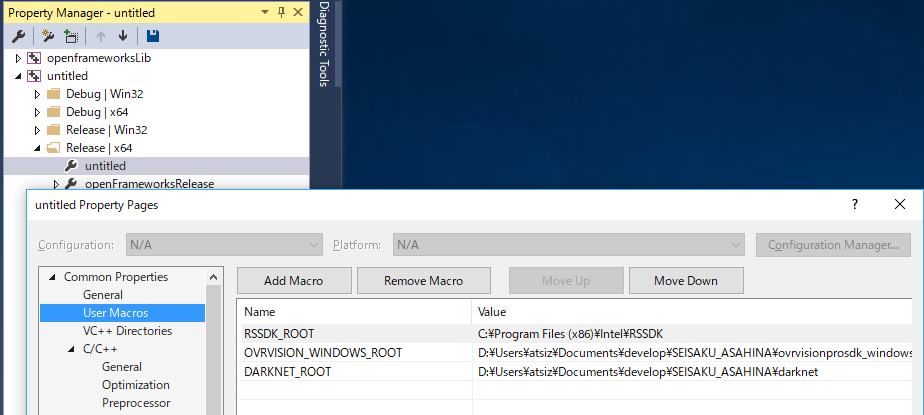
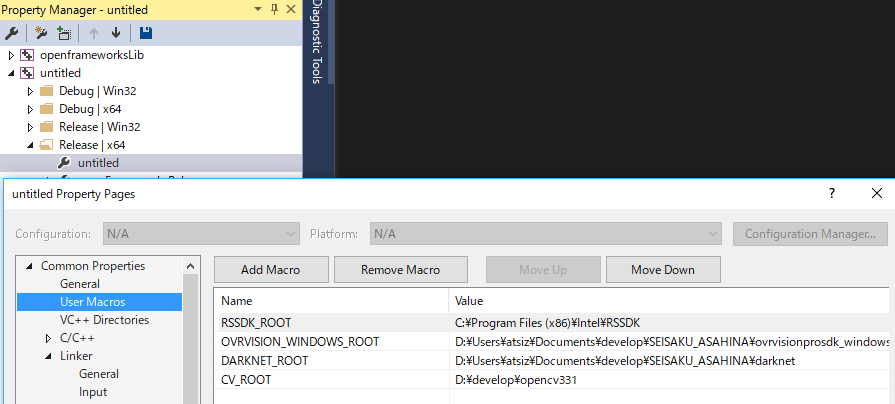
implemeted canny filter to OVRVISION images.

diff --git a/src/ofApp.cpp b/src/ofApp.cpp
@@ -25,6 +25,10 @@ void ofApp::setup() {
 	ovrh = ovrPro.ovr_camHeight;
 	ovrwt = ovrw / 1000;
 	ovrht = ovrh / 1000;
+	cannyLeft.allocate(ovrw, ovrh, GL_RGBA);
+	cannyRight.allocate(ovrw, ovrh, GL_RGBA);
+	//cannyRight.allocate(ovrw, ovrh, GL_RGBA);
+	// OF_IMAGE_COLOR
 
 	//set parameter - for calibration
 	xp.set("X", 0.45, 0, 10.0); xdp.set("+X", -0.05, -1.0, 1.0);
@@ -69,6 +73,7 @@ void ofApp::update() {
 
 	//update ovr
 	ovrPro.update();
+	canny();
 
 	//billboarding
 	billboarding(position, axis);
@@ -232,13 +237,15 @@ void ofApp::drawPlane() {
 
 void ofApp::drawOvrvisionSceneLeft() {
 	ofTranslate(axis.z * ztexture);
-	ovrPro.texL.draw(tlx_l, tly_l, brx_l, bry_l);
+	//ovrPro.texL.draw(tlx_l, tly_l, brx_l, bry_l);
+	cannyLeft.draw(tlx_l, tly_l, brx_l, bry_l);
 	ofTranslate(axis.z * -ztexture);
 }
 
 void ofApp::drawOvrvisionSceneRight() {
 	ofTranslate(axis.z * ztexture);
-	ovrPro.texR.draw(tlx_r, tly_r, brx_r, bry_r);
+	//ovrPro.texR.draw(tlx_r, tly_r, brx_r, bry_r);
+	cannyRight.draw(tlx_r, tly_r, brx_r, bry_r);
 	ofTranslate(axis.z * -ztexture);
 }
 
@@ -277,6 +284,22 @@ void ofApp::showFPS()
 	std::stringstream strm;
 	strm << "fps: " << ofGetFrameRate();
 	ofSetWindowTitle(strm.str());
+}
+
+void ofApp::canny()
+{
+	cv::Mat ovrLeftSource = cv::Mat(ovrh, ovrw, CV_8UC4, ovrPro.pixL);
+	cv::Mat ovrRightSource = cv::Mat(ovrh, ovrw, CV_8UC4, ovrPro.pixR);
+	cv::Mat cannyLeftResult;
+	cv::Mat cannyRightResult;
+	cv::Canny(ovrLeftSource, cannyLeftResult, 50, 200);
+	cv::Canny(ovrRightSource, cannyRightResult, 50, 200);
+	cv::cvtColor(cannyLeftResult, cannyLeftResult, CV_GRAY2BGRA);
+	cv::cvtColor(cannyRightResult, cannyRightResult, CV_GRAY2BGRA);
+	//cv::imshow("hoge", cannyLeftResult);
+
+	cannyLeft.loadData(cannyLeftResult.ptr(), ovrw, ovrh, GL_RGBA);
+	cannyRight.loadData(cannyRightResult.ptr(), ovrw, ovrh, GL_RGBA);
 }
 
 

diff --git a/src/ofApp.h b/src/ofApp.h
@@ -6,6 +6,7 @@
 #include "ofxOculusRiftCV1.h"
 #include "ofxGui.h"
 #include "OvrPro.h"
+#include <opencv2/opencv.hpp>
 
 //to restore and position and size data of those objects which will show at OculusCv1
 struct posAndSize_
@@ -96,6 +97,11 @@ private:
 	bool isCamVisible = true;
 	bool isTextVisible = false;
 
+	// canny filter
+
+	ofTexture cannyRight;
+	ofTexture cannyLeft;
+
 	// -------------------------------------
 	// public FUNCTIONS
 	std::vector<posAndSize_> getPositionOfObj();
@@ -106,6 +112,7 @@ private:
 	void drawOvrvisionSceneRight();
 	void updateAlpha();
 	void showFPS();
+	void canny();
 
 public:
 	void setup();

diff --git a/README.md b/README.md
@@ -29,6 +29,7 @@ download and put them into `$(OF_ROOT)\addons`
 
 #### Requirement
 
+- Download and extract [OpenCV 3.3.1](https://github.com/opencv/opencv/releases/tag/3.3.1)
 - Download and unzip [OvrvisionPro SDK for Windows](http://ovrvision.com/setup/) anywhere you want (for example `C:\libraries\ovrvisionprosdk_windows\`)
 - Install [Oculus Runtime for Windows](https://www.oculus.com/setup/)
 - Install [Intel® RealSense™ Camera SR300 Firmware](https://software.intel.com/en-us/realsense-sdk-windows-eol)
@@ -57,6 +58,7 @@ you must modify below.
 * `$(DARKNET_ROOT)`
 * `$(OVRVISION_WINDOWS_ROOT)`
 * `$(RSSDK_ROOT)`
+* `$(CV_ROOT)`
 
 ### IF YOU DIDN'T BUILD YOUR YOLOv2 by yourself
 
@@ -104,6 +106,7 @@ you have to replace some addon files with files in the `modified` floder (to get
 - `ovrvison.dll` (from `$(OVRVISION_ROOT)\bin\x64`)
 - `OpenAl32.dll` (from `$(OVRVISION_ROOT)\bin\x64`)
 - `yolo_cpp_dll.dll` (if you don't build yourself, please get it from `ofxYolo2/dll/`)
+- `opencv_world331.dll` (from `$(CV_ROOT)\build\x64\vc14\bin`) (if you had added cv path to environment variables, don't need this.)
 
 ### Modify YOLO needed files under `bin/data`
 
@@ -111,3 +114,4 @@ you have to replace some addon files with files in the `modified` floder (to get
 - `yolo-obj.weights`
 - `obj.names`
 
+> file names above can be change in `$(OF_ROOT)\addons\ofxYolo2\src\ofxYolo2.cpp`
